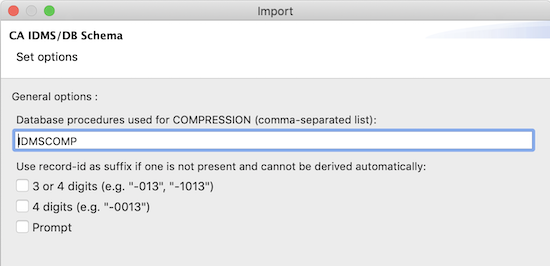
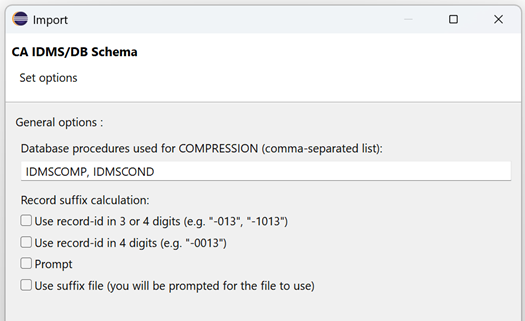
Update help content

Changed region(s): [[0.0, 0.0, 1.0, 1.0]]

diff --git a/Eclipse CA IDMS Schema Diagram Editor/bundles/org.lh.dmlj.schema.editor.help/html/diagrams/import_diagram.html b/Eclipse CA IDMS Schema Diagram Editor/bundles/org.lh.dmlj.schema.editor.help/html/diagrams/import_diagram.html
@@ -93,9 +93,17 @@ Enter the names of the <b>database procedures</b> you use for <i>compression</i>
 <br><br>
 <img src="../../images/import_syntax_options.png" alt="[import from syntax options]">
 <br><br>
-You also can help the import tool in determining the correct <b>base record- and record synonym names</b> if there is a 
-relation with their record ids. Note that there is only 1 method to have these 100% correct: import your schema
-diagrams directly from your dictionaries...
+You also can help the import tool in determining the correct <b>base record- and record synonym names</b>, e.g. if there is a 
+relation with their record ids; you can also create a file where you list all record suffixes:
+<pre>
+RECORD-1-100=-100
+RECORD-2-200=-200
+...
+</pre>
+Note that there is only 1 method to have these 100% correct: import your schema diagrams directly from your dictionaries...
+<br><br>
+<b>Warning:</b><br>
+It is possible that you encounter issues when importing a diagram from schema syntax because the implementation is not perfect.
 <a id="dictionary"><h2>Importing from a Dictionary</h2></a>
 Although it is fairly easy to import diagrams from schema <i>syntax</i>, it is much more efficient and precise to import
 diagrams directly from an <b>IDMS application dictionary</b>. In order to be able to import schema diagrams from a 

diff --git a/Eclipse CA IDMS Schema Diagram Editor/bundles/org.lh.dmlj.schema.editor.help/html/diagrams/schema_editor.html b/Eclipse CA IDMS Schema Diagram Editor/bundles/org.lh.dmlj.schema.editor.help/html/diagrams/schema_editor.html
@@ -254,9 +254,16 @@ Properties view for both connectors.</li>
 </ul>
 <a id="figures"><h2>Working with Figures</h2></a>
 You can easily drag a figure (a record, index, VSAM index, connector, set connection label or diagram label) to 
-another location.
+another location:
 <br><br>
-<img src="../../images/working_with_figures.png" alt="[working with figures]">
+<img src="../../images/working_with_figures_1.png" alt="[working with figures]">
+<br><br>
+Result:
+<br><br>
+<img src="../../images/working_with_figures_2.png" alt="[working with figures]">
+<br><br>
+When moving a single record or connector, the diagram editor will also adjust certain bendpoints, in an effort to
+keep your connections to look nice, but you might need to do some further adjustments yourself.
 <br><br>
 <a id="connections"><h2>Working with Connections</h2></a>
 Every set connection is initially a straight line between the owner and member figure (multiple-member 
